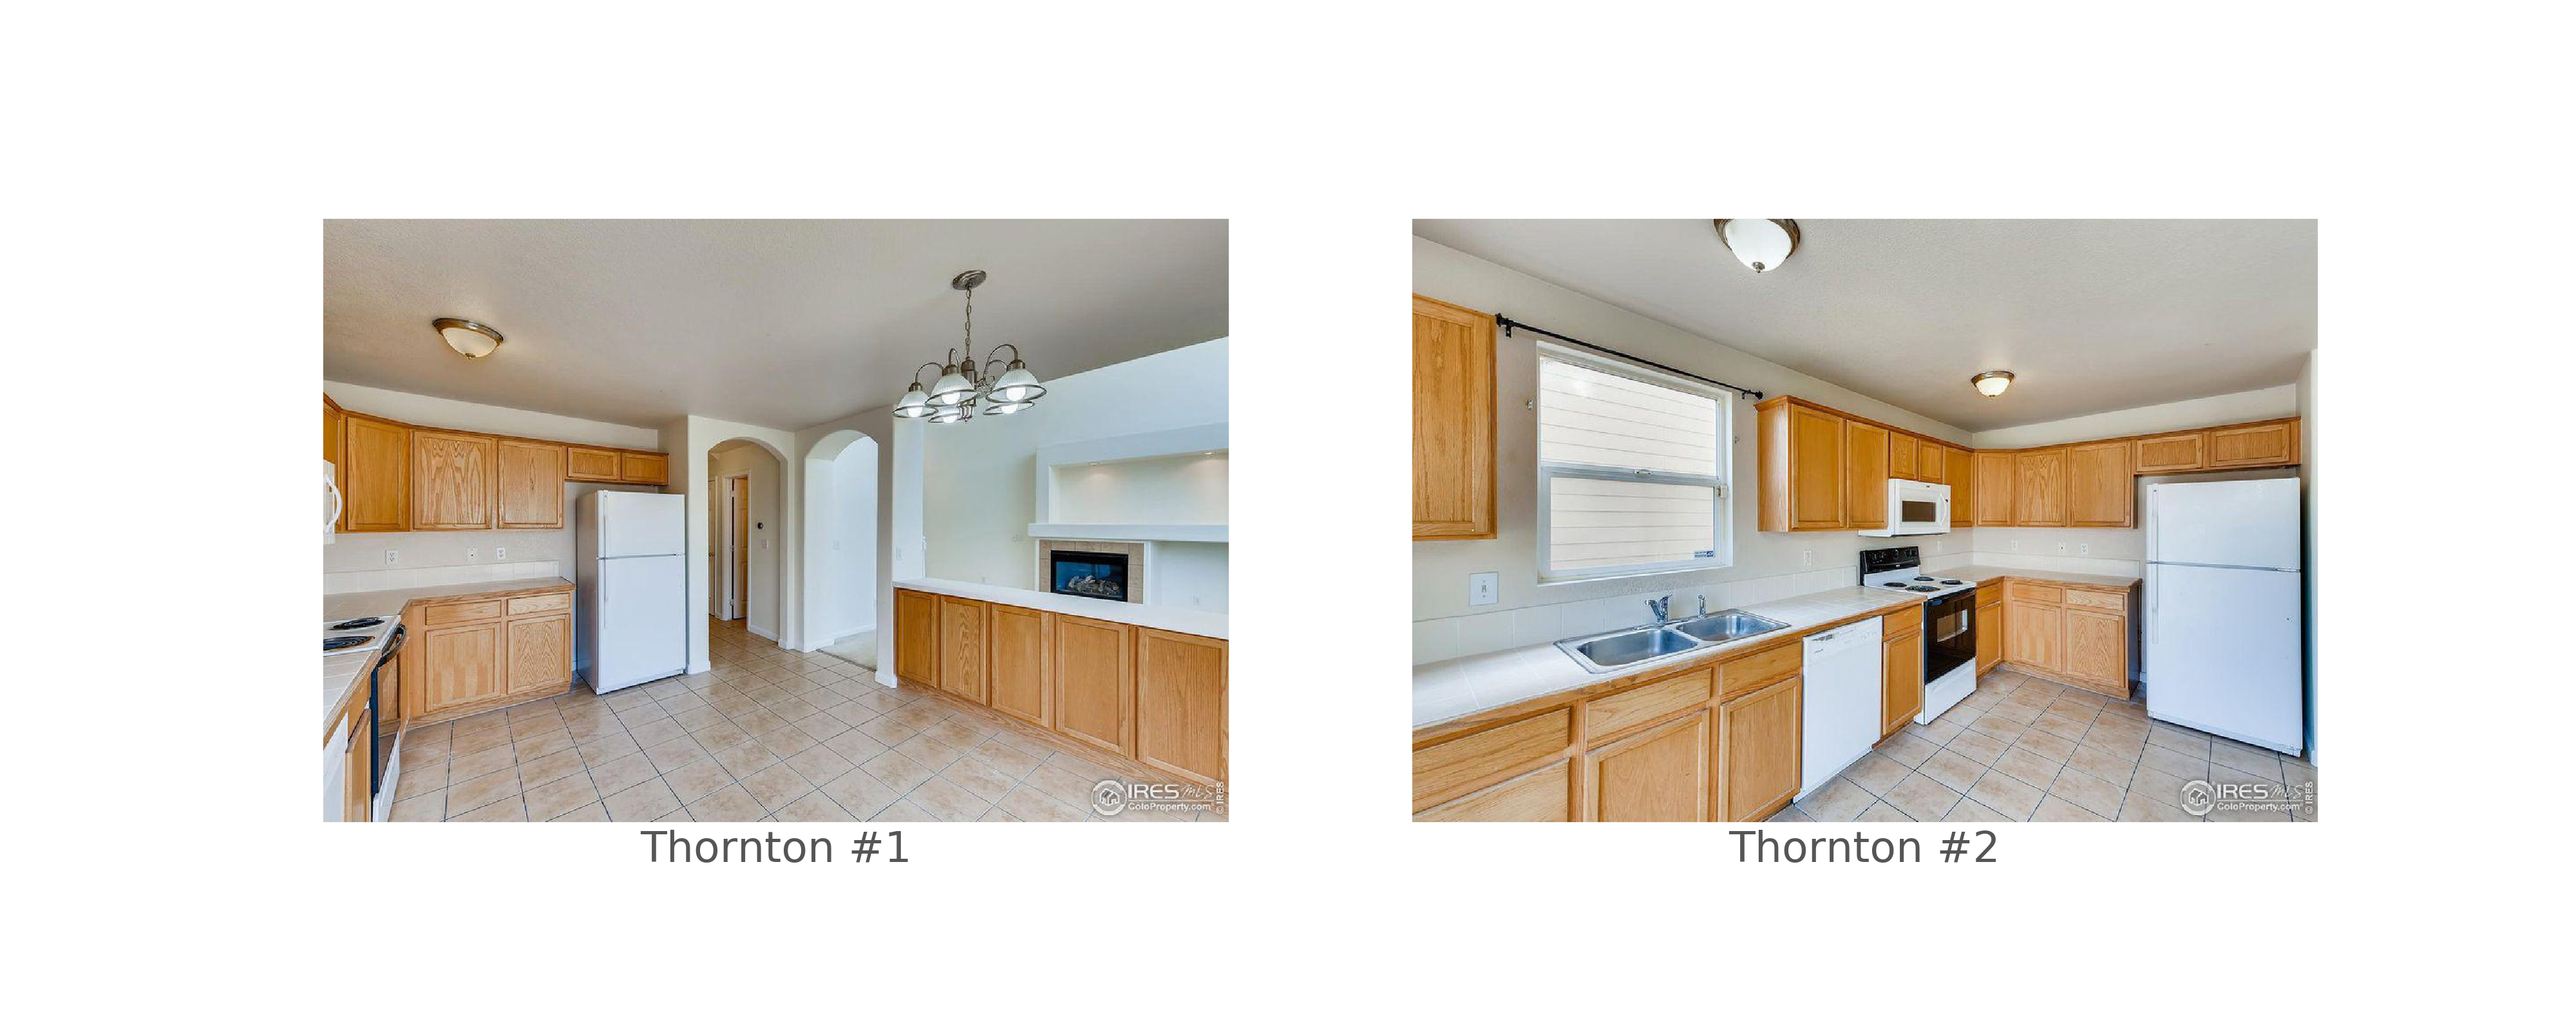
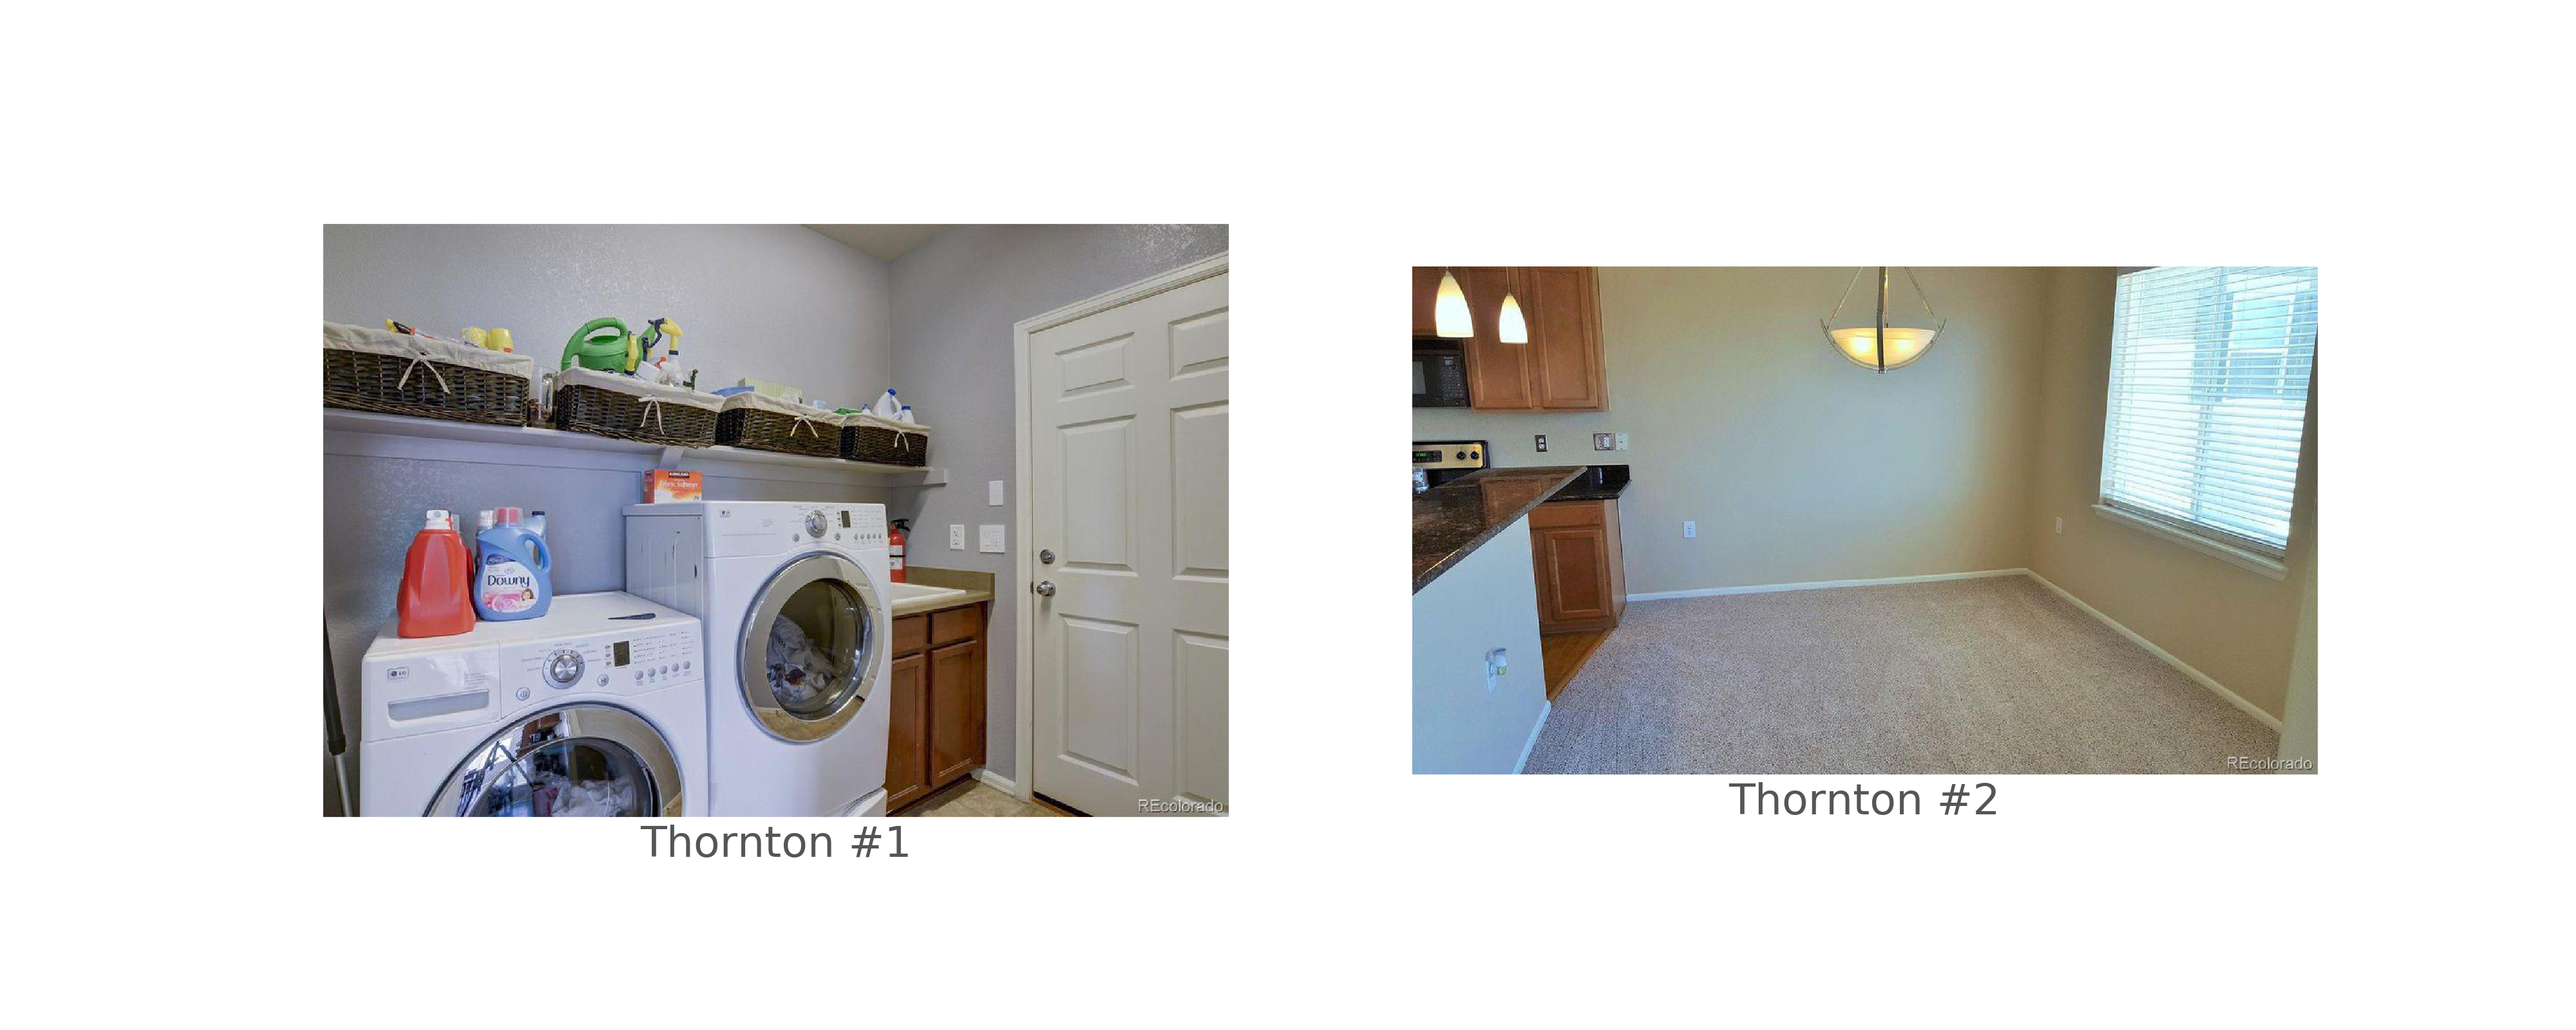
imgs and readme

diff --git a/src/plotting_functions.py b/src/plotting_functions.py
@@ -81,13 +81,18 @@ if __name__ == "__main__":
     Plotting 1x2 by city
     '''
     
-    # cats = ['Denver','Arvada','Aurora','Lakewood','Centennial','Westminster','Thornton']
-    # for cat in cats:
-    #     test = df.image_file[df.city == cat]
-    #     fnames = list(test)[100:102]
-    #     color_imgs = [io.imread(f'../data/listing_images/full/{file}') for file in fnames]
-    #     plot_1x2_img(color_imgs,[f'{cat} #1',f'{cat} #2'])
-    #     save_fig(f'{cat}_1x2.png')
+    cats = ['Denver','Arvada','Aurora','Lakewood','Centennial','Westminster','Thornton']
+    for cat in cats:
+        test = df.image_file[df.city == cat]
+        
+    
+        fnames = []
+        for _ in range(2):
+            rand_idx = np.random.randint(0,500)
+            fnames.append(list(test)[rand_idx])
+        color_imgs = [io.imread(f'../data/listing_images/full/{file}') for file in fnames]
+        plot_1x2_img(color_imgs,[f'{cat} #1',f'{cat} #2'])
+        save_fig(f'{cat}_1x2.png')
 
     '''
     Plotting 1x4 gray

diff --git a/README.md b/README.md
@@ -112,16 +112,32 @@ Well. Not exactly the same. To get a better understanding of these 5,000 images,
     <img src="images/Thornton_1x2.png" width='800'/>
 </p>
 
+As seen in the Arvada subgroup - some of these images are of the house from the outside. Not shown above, there are also images of empty lots, chicken coops, and other unforseen images.
+
+
 # Image Processing
 
-To process the images, I built a 
+ Unfortunately, the images from Realtor.com are 1000x700 color images. In order to train a machine learning model, I preprocessed them with a pipeline.
+
+ First, the images were cropped square.
+
+<p align="center">
+    <img src="images/1x2_color.png" width='800'/>
+</p>
+
+Then the images were grayscaled and reduced. I collected 32x32, 64x64, 128x128, and 256x256. Afterwards, I visually checked to see at which point the image was visually unrecognizable.
 
 <p align="center">
     <img src="images/1x4_gray.png" width='800'/>
 </p>
 
+At 32x32 it becomes difficult to where an object begins and ends; however, smaller images are easier to featurize.
+
 # Naive Bayes Classifier
 
+As an initial step, I wanted to see how a relatively simple model classified the images. I chose to use a Niave Bayes classifier as they have been shown to predict relatively well on raveled images. 
+
+Initially, I split the data into holdout and train/test groups with 20% of the data stored in the holdout set. An additional 20% of the data was heldout for testing, with the remainder comprising the train set. 
 
 
 # Conclusion
